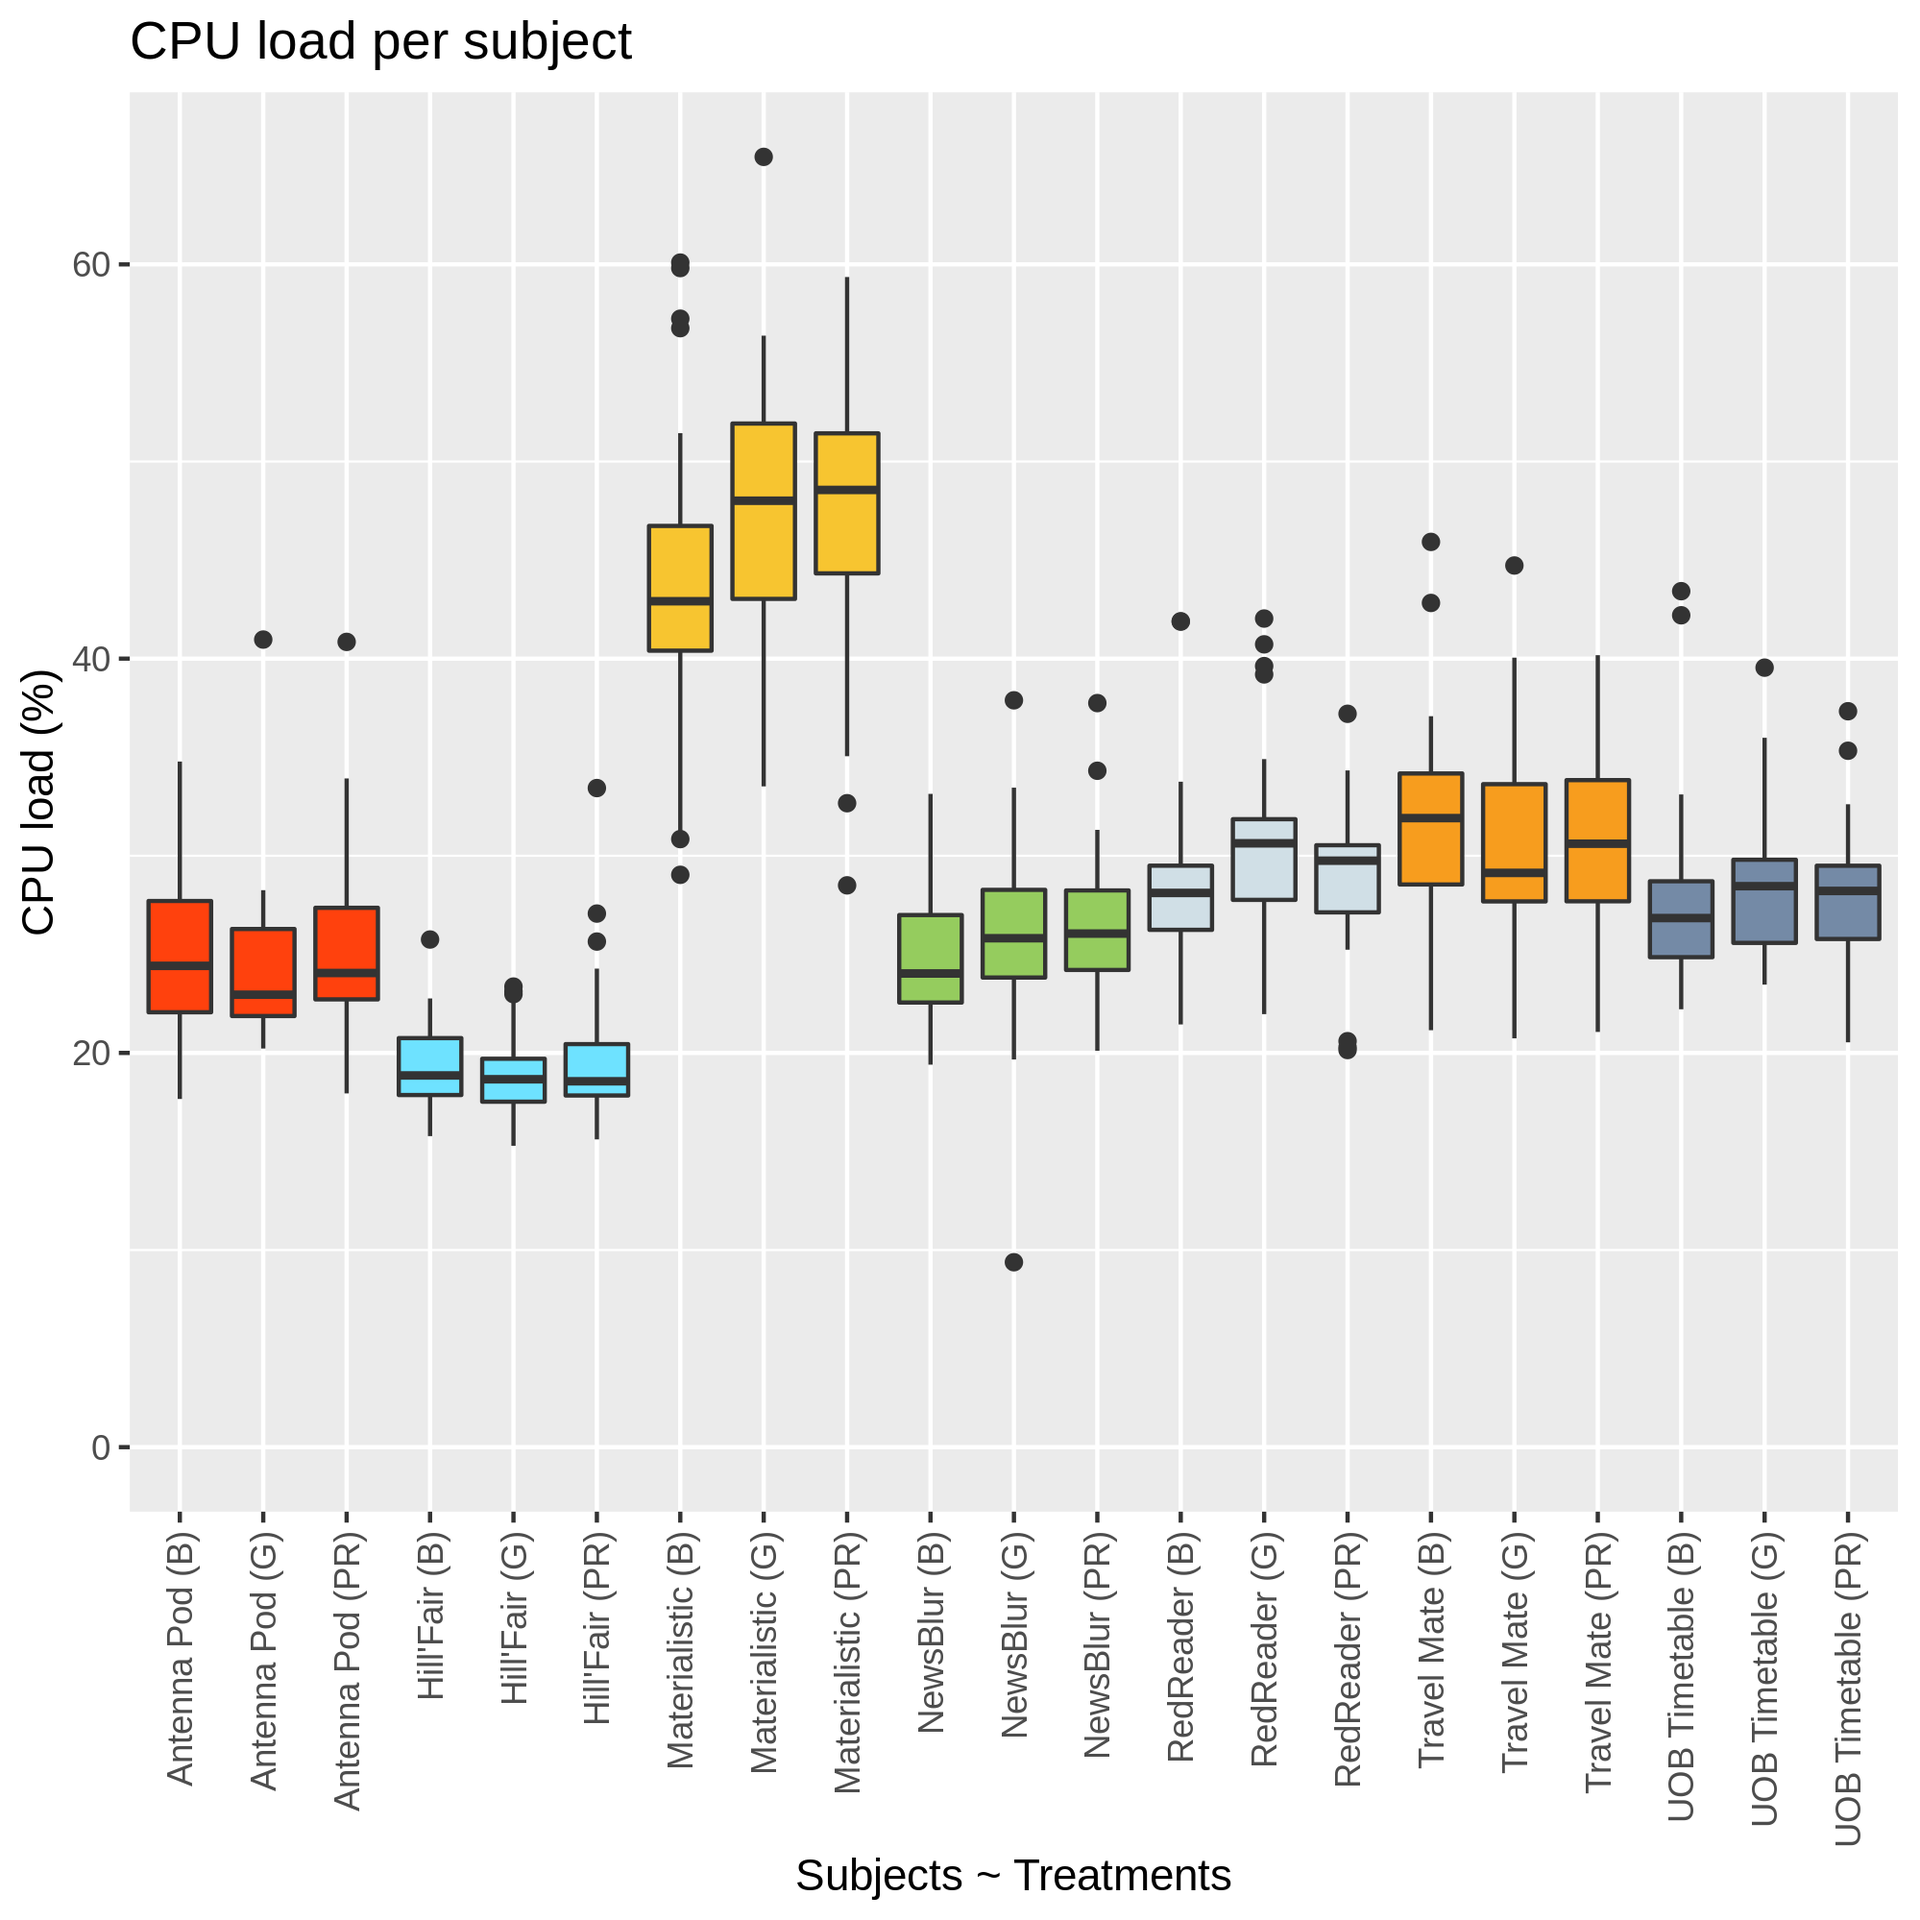
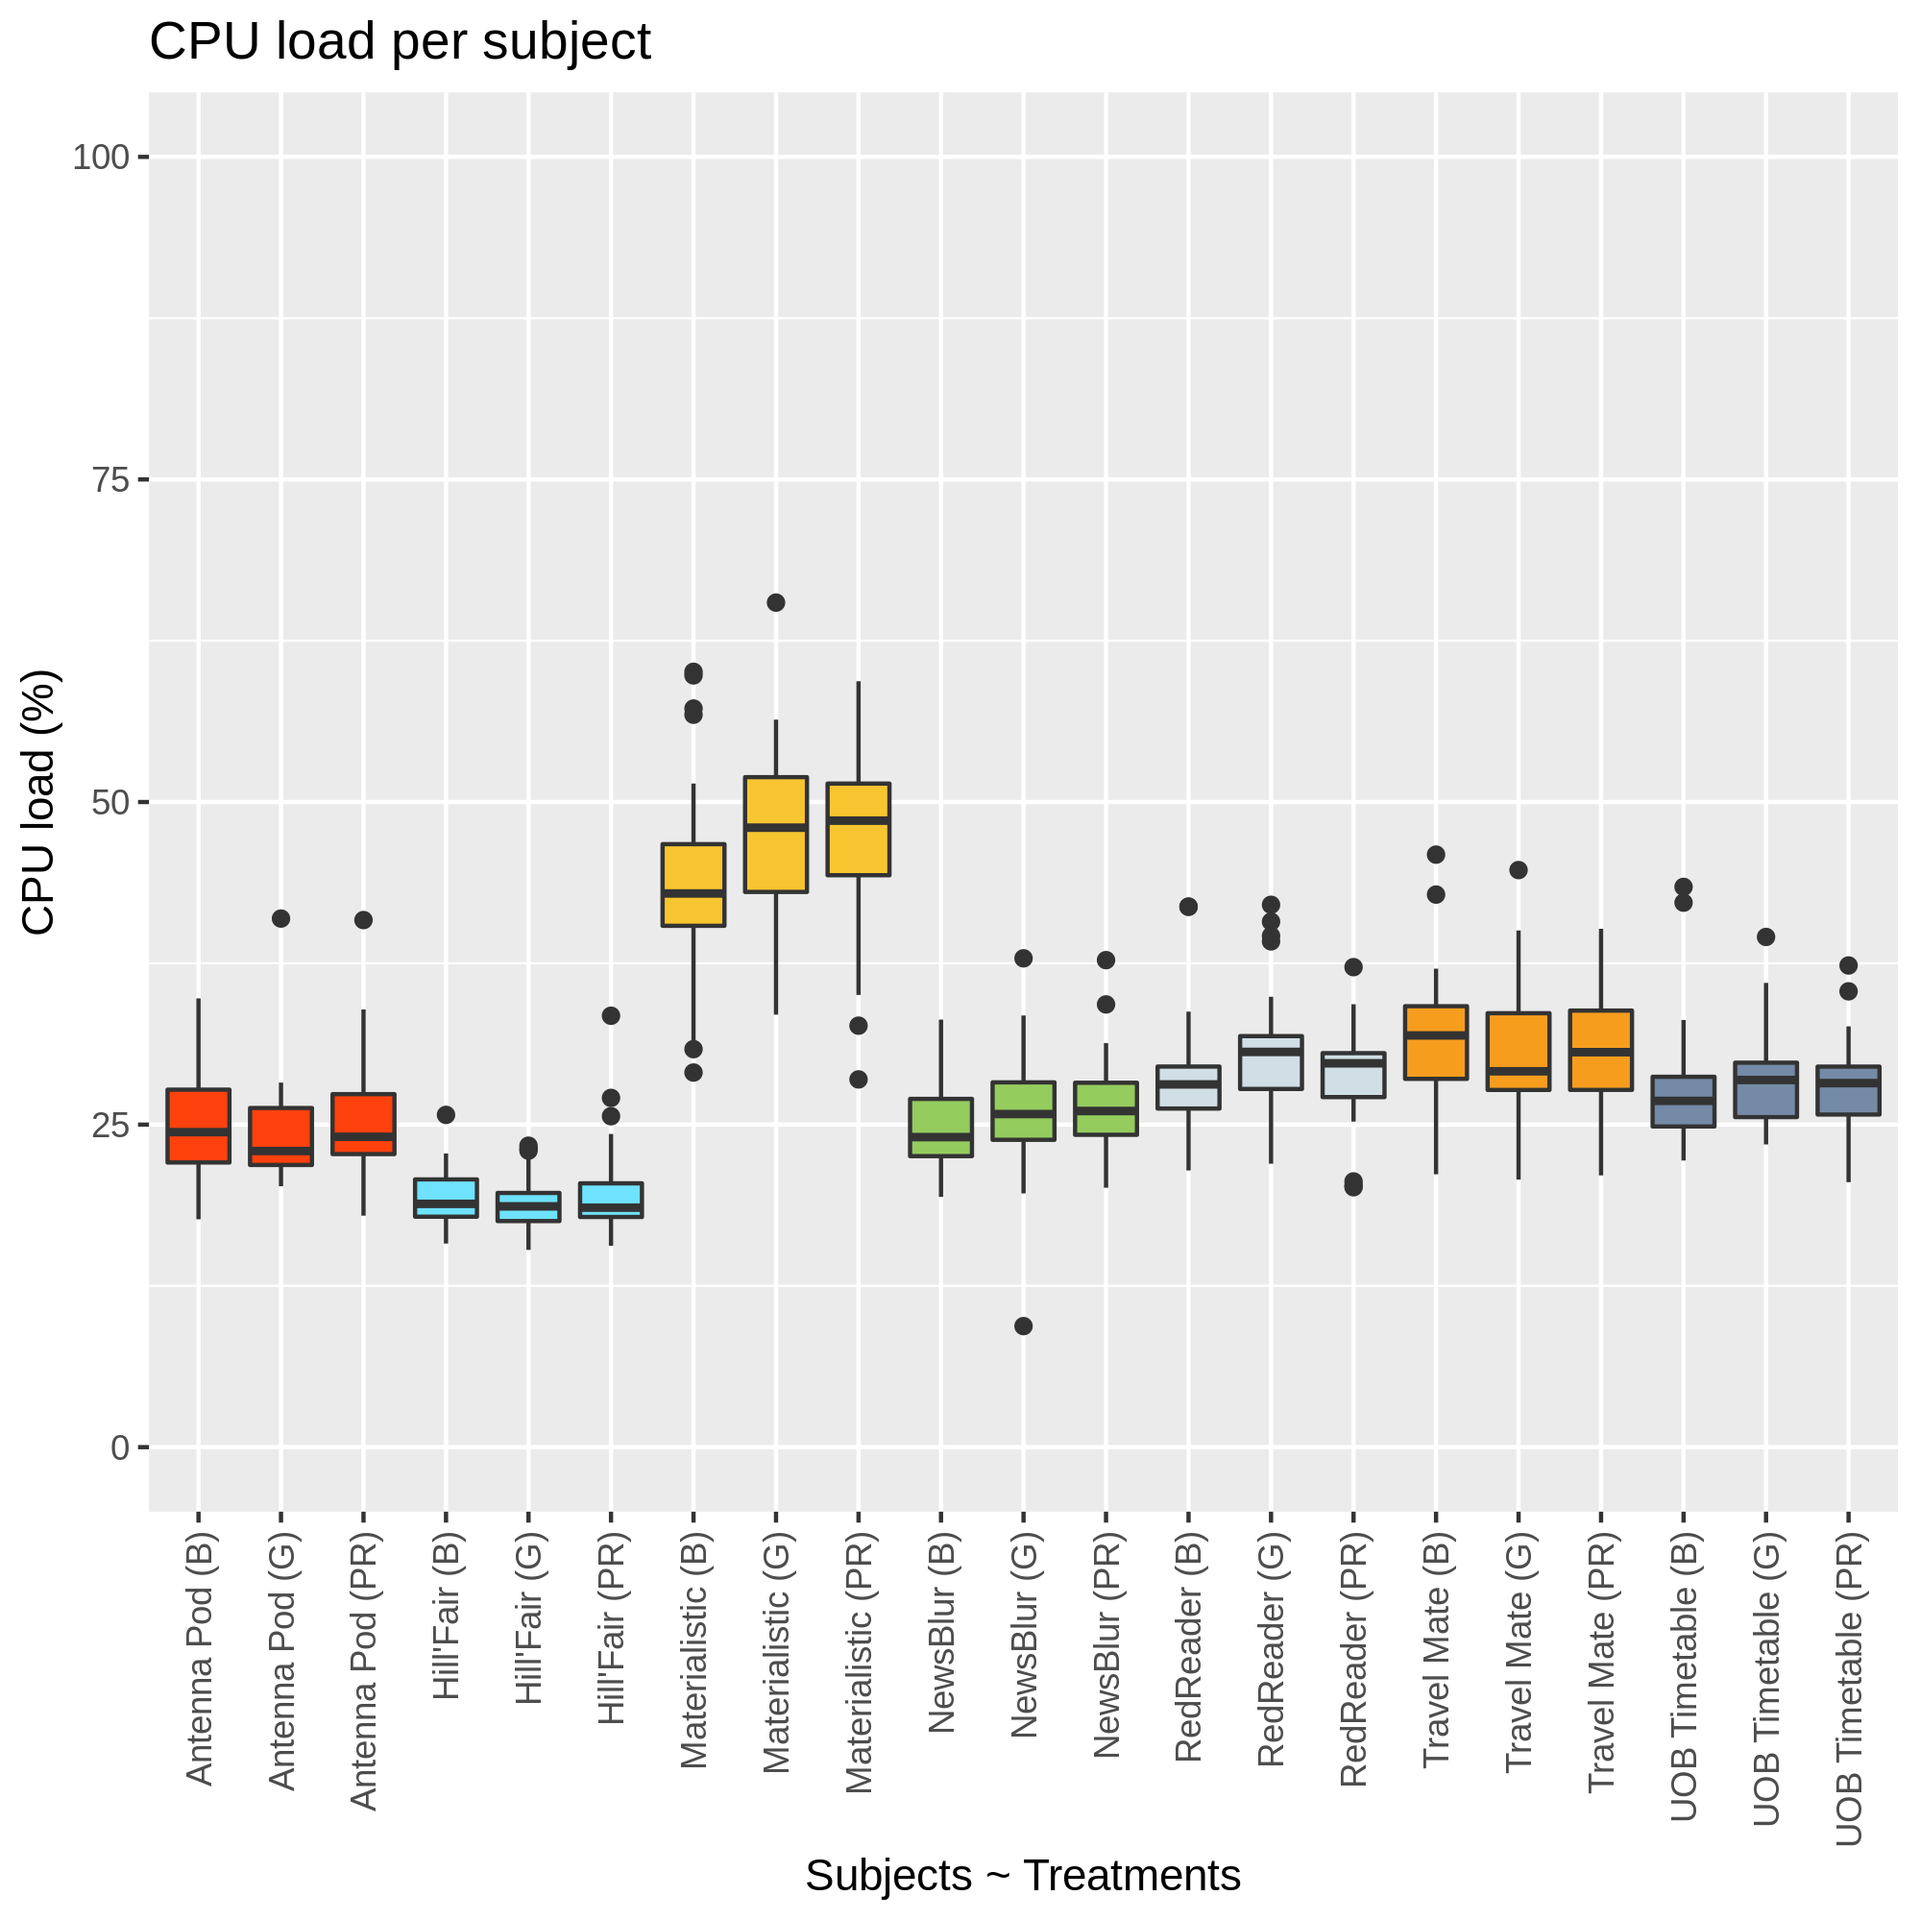
Add upper limit to cpu plot

diff --git a/data-analysis/output/rq1/summary-battery.tex b/data-analysis/output/rq1/summary-battery.tex
@@ -1,5 +1,5 @@
 % latex table generated in R 4.0.2 by xtable 1.8-4 package
-% Fri Aug  7 20:40:20 2020
+% Fri Aug  7 20:41:39 2020
 \begin{table}[ht]
 \centering
 \begin{tabular}{rrrrrrr}

diff --git a/data-analysis/output/rq1/summary-cpu.tex b/data-analysis/output/rq1/summary-cpu.tex
@@ -1,5 +1,5 @@
 % latex table generated in R 4.0.2 by xtable 1.8-4 package
-% Fri Aug  7 20:40:20 2020
+% Fri Aug  7 20:41:39 2020
 \begin{table}[ht]
 \centering
 \begin{tabular}{rrrrrrr}

diff --git a/data-analysis/output/rq1/summary-memory.tex b/data-analysis/output/rq1/summary-memory.tex
@@ -1,5 +1,5 @@
 % latex table generated in R 4.0.2 by xtable 1.8-4 package
-% Fri Aug  7 20:40:20 2020
+% Fri Aug  7 20:41:39 2020
 \begin{table}[ht]
 \centering
 \begin{tabular}{rrrrrrr}

diff --git a/data-analysis/output/rq1/summary-duration.tex b/data-analysis/output/rq1/summary-duration.tex
@@ -1,5 +1,5 @@
 % latex table generated in R 4.0.2 by xtable 1.8-4 package
-% Fri Aug  7 20:40:20 2020
+% Fri Aug  7 20:41:39 2020
 \begin{table}[ht]
 \centering
 \begin{tabular}{rrrr}
